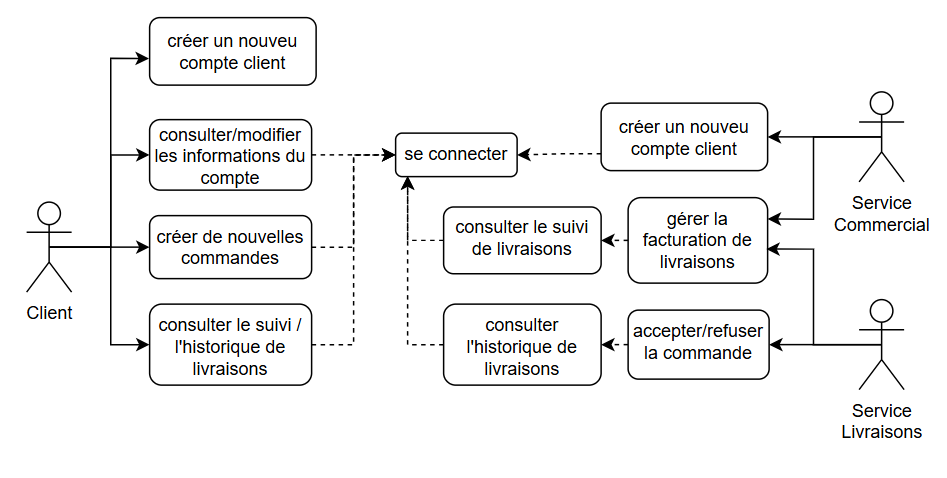
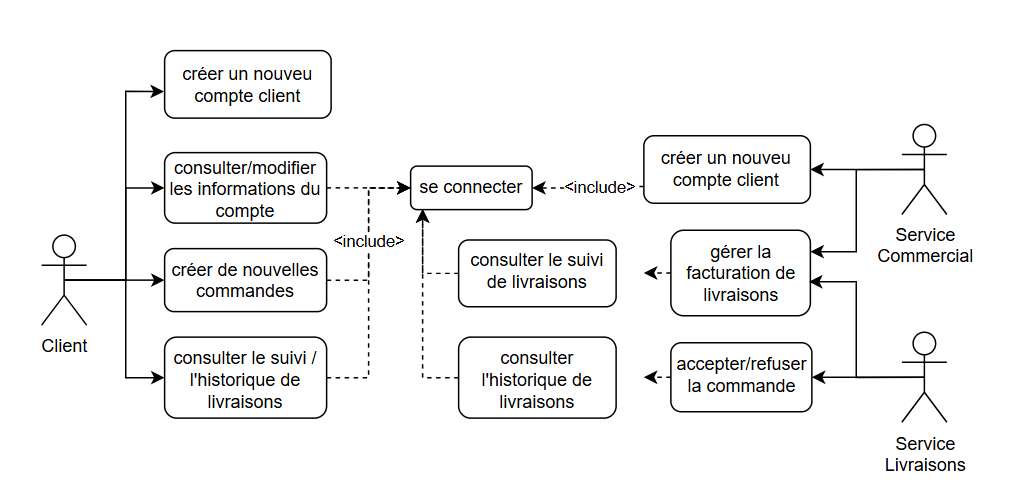
modify printing css

Changed region(s): [[0.0306, 0.0293, 0.9799, 0.9665]]

diff --git a/css/diapo.css b/css/diapo.css
@@ -161,10 +161,15 @@ width:200px;
     width: 100%;
     height: 100%;
     box-sizing: border-box;
+    padding: 64px 64px 0; /* Maintain padding in print */
   }
 
   body {
     margin: 0;
     padding: 0;
+  }
+
+  .page > h1 {
+    position: relative;
   }
 }

diff --git a/livrai/index.html b/livrai/index.html
@@ -16,7 +16,7 @@
         <p style="border: 4px solid #80C4E9;padding:16px;border-radius: 16px;text-align: center;">
           Présentée par Xinhe YU
           <br>
-          le 21 février 2025
+          le 28 février 2025
         </p>
 
       </div>
